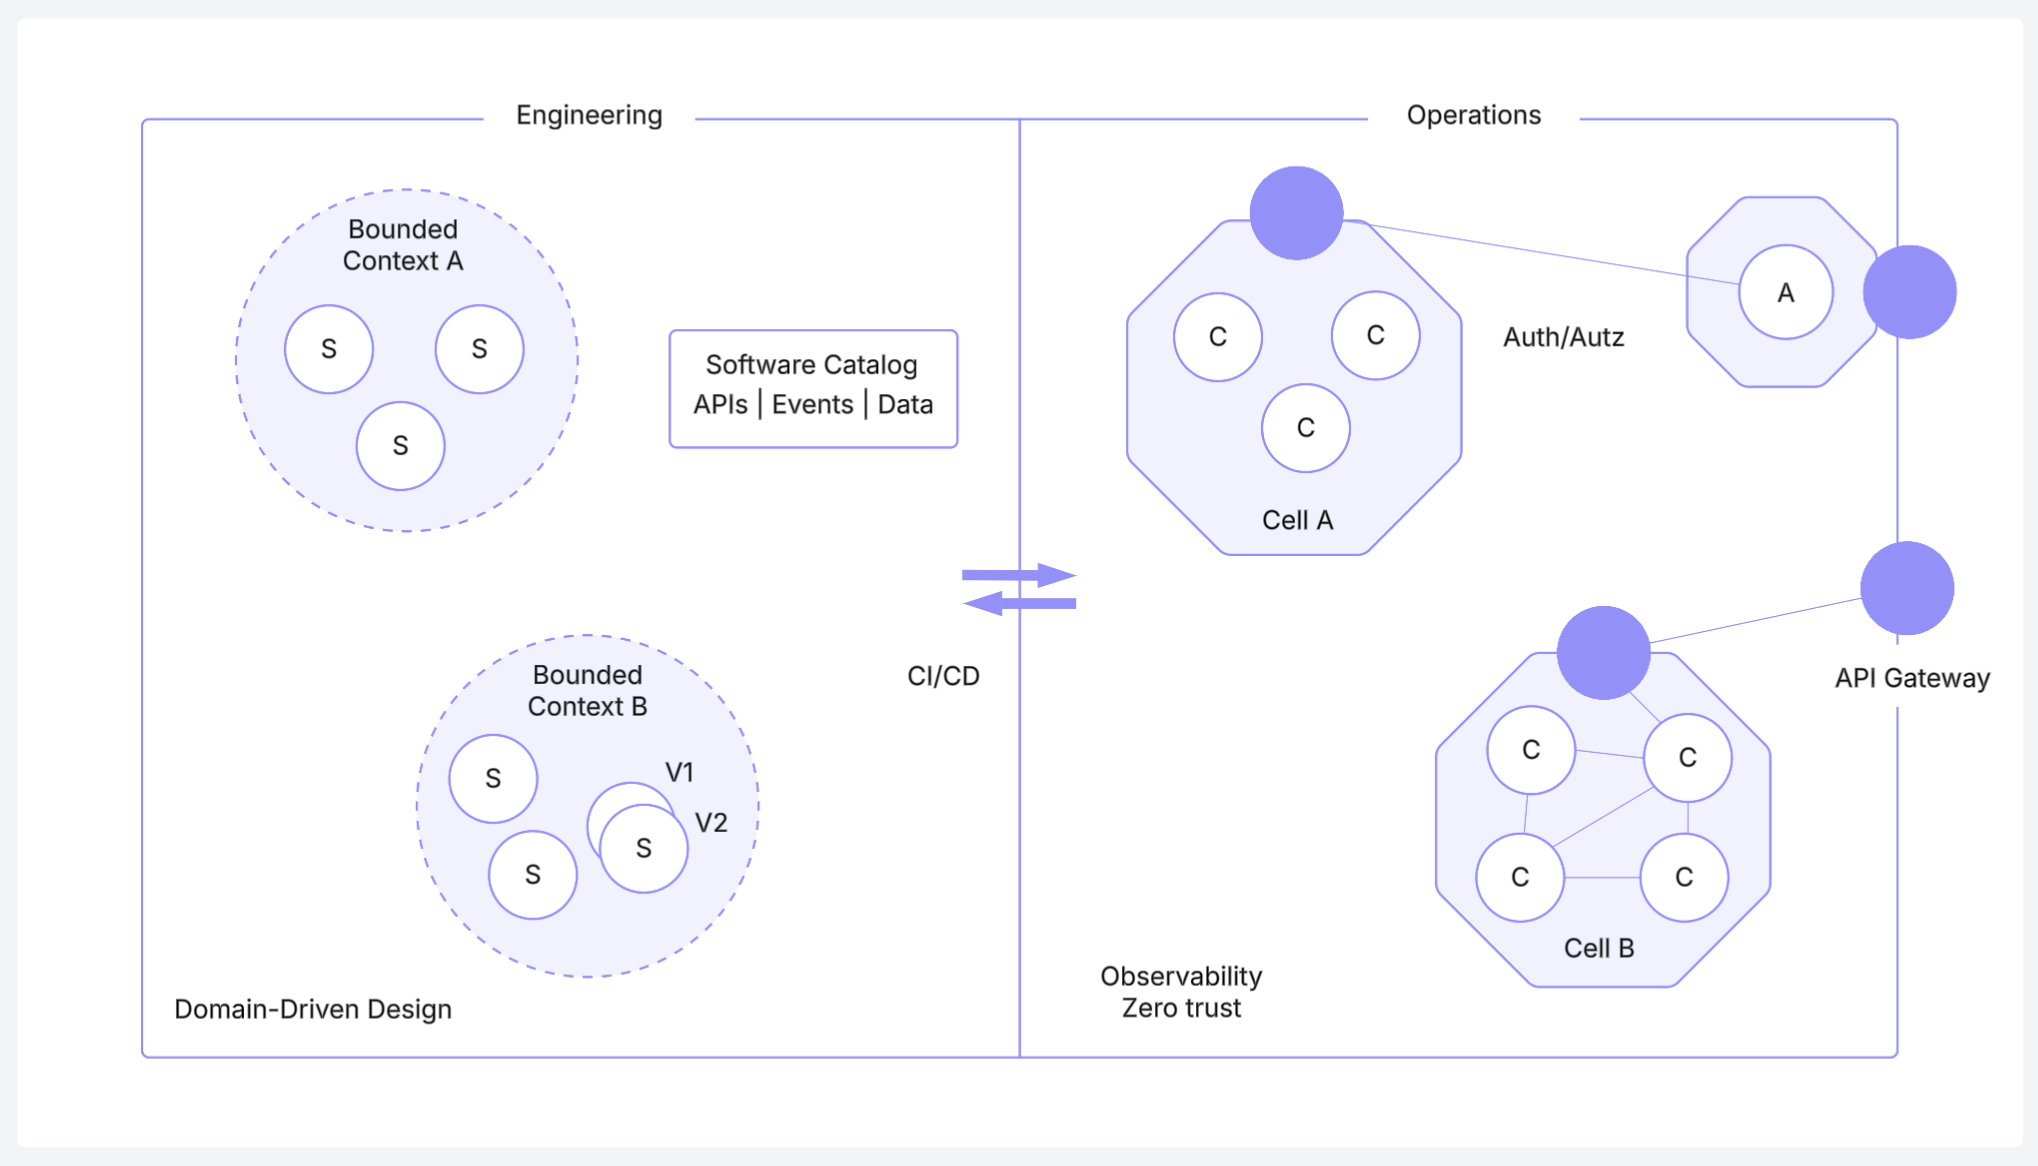
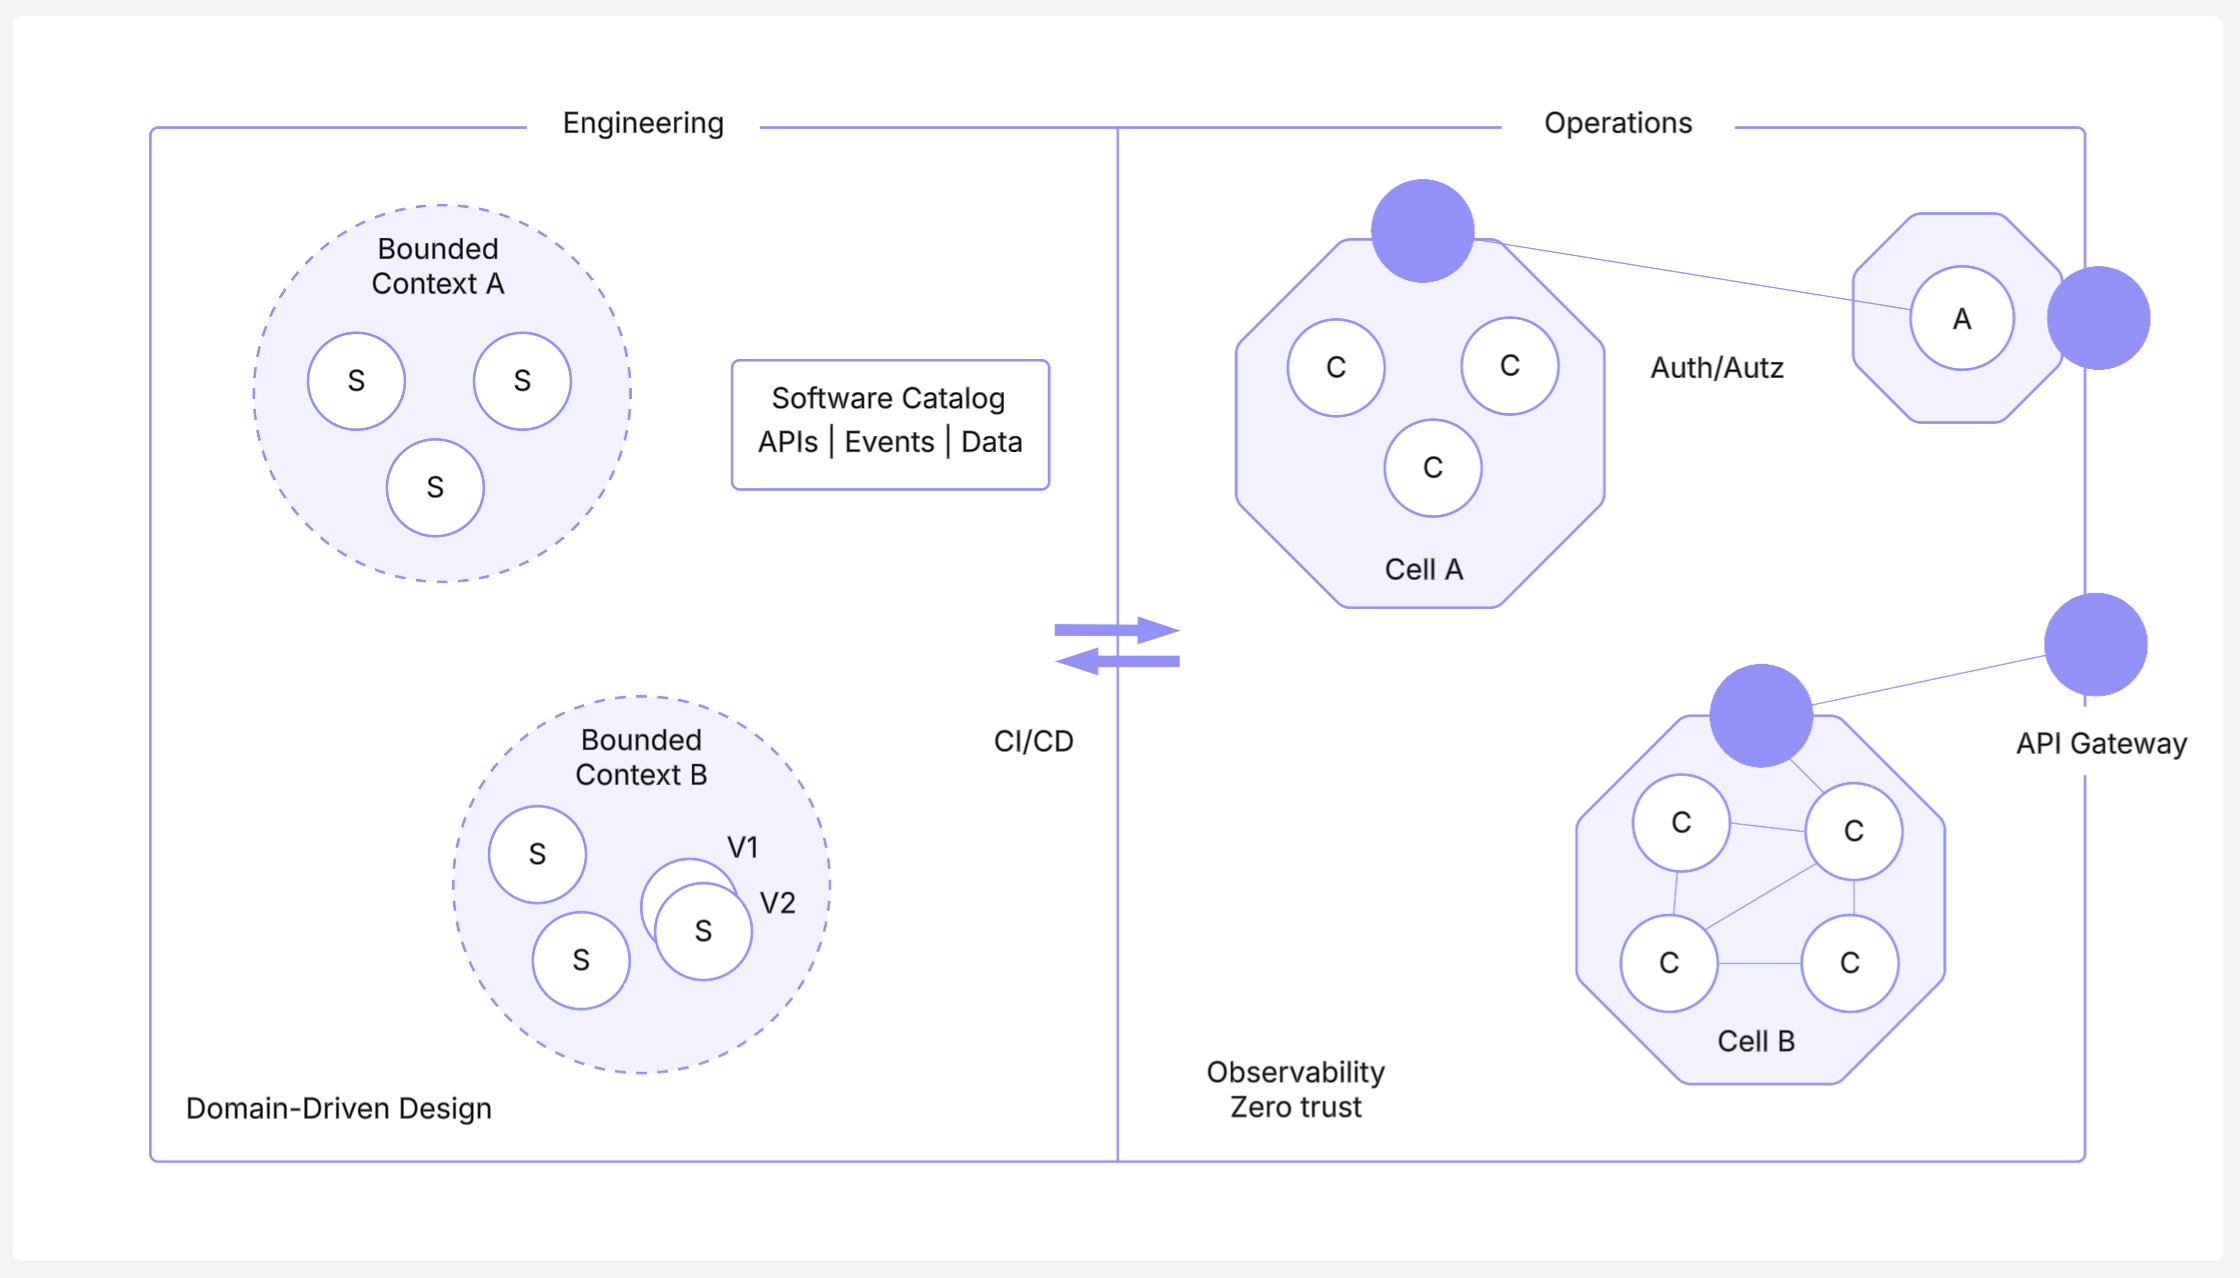
Update images and their width

diff --git a/README.md b/README.md
@@ -25,7 +25,7 @@ OpenChoreo introduces a combination of platform abstractions and application abs
 
 Platform engineers use the following abstractions to create their internal developer platform:
 <div align="left">
-  <img src="./docs/images/openchoreo-platform-abstractions.png" alt="OpenChoreo Platform Abstractions" width="600"/>
+  <img src="./docs/images/openchoreo-platform-abstractions.png" alt="OpenChoreo Platform Abstractions" width="800"/>
 </div>
 </br>
 
@@ -42,7 +42,7 @@ Platform engineers use the following abstractions to create their internal devel
 
 Project managers, architects, and developers use the following abstractions to manage the organization of their work:
 <div align="left">
-  <img src="./docs/images/openchoreo-development-abstractions.png" alt="OpenChoreo Development Abstractions" width="600"/>
+  <img src="./docs/images/openchoreo-development-abstractions.png" alt="OpenChoreo Development Abstractions" width="800"/>
 </div>
 </br>
 
@@ -85,11 +85,10 @@ At runtime, OpenChoreo turns each Project (Bounded Context) into a Cell, a secur
   - Endpoints with `visibility: organization` are exposed through this ingress path.
 - **Eastbound Egress**
   - Handles outbound traffic to other cells or to the internal network.
-</br>
 
 ## OpenChoreo benefits
 <div align="left">
-  <img src="./docs/images/openchoreo-ddd-to-cell-mapping.png" alt="OpenChoreo DDD-to-Cell Mapping" width="600"/>
+  <img src="./docs/images/openchoreo-ddd-to-cell-mapping.png" alt="OpenChoreo DDD-to-Cell Mapping" width="800"/>
 </div>
 </br>
 
